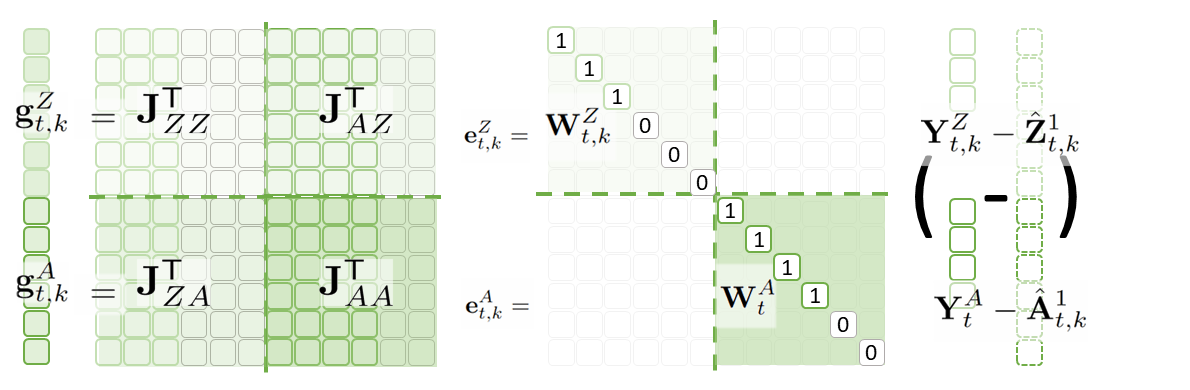
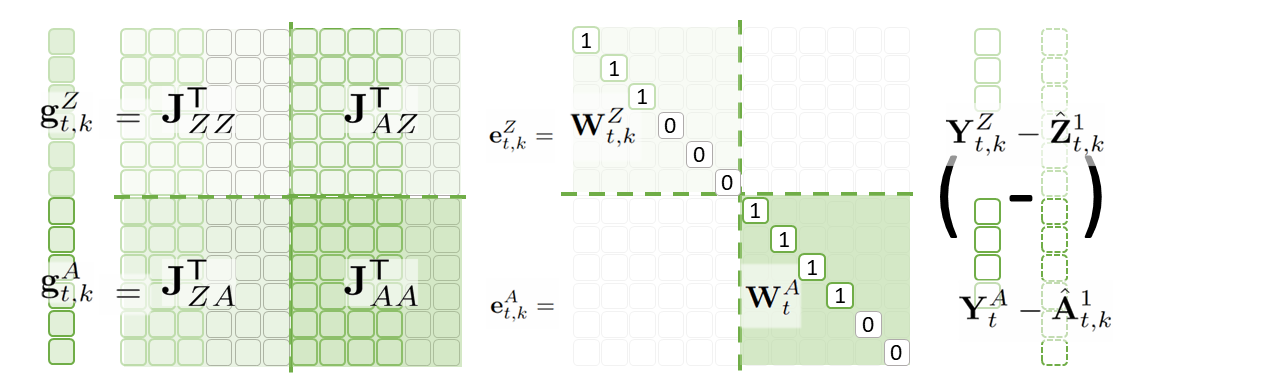
Preserve horizontal alignment in Figure 4

Changed region(s): [[0.0, 0.0615, 0.9328, 0.9538], [0.4353, 0.4923, 0.5286, 0.5231], [0.5597, 0.1231, 0.6218, 0.1538]]

diff --git a/docs/Chapters/3_Method.tex b/docs/Chapters/3_Method.tex
@@ -408,10 +408,10 @@ full endpoint Jacobian propagates them across state and action coordinates.
 
 \begin{figure*}[t]
     \centering
-    \includegraphics[width=0.94\textwidth]{../material/mask/parallel_0_cropped.png}
+    \includegraphics[width=0.98\textwidth]{../material/mask/parallel_0_cropped.png}
     \vspace{0.4em}
 
-    \includegraphics[width=0.90\textwidth]{../material/mask/parallel_1_cropped.png}
+    \includegraphics[width=0.98\textwidth]{../material/mask/parallel_1_cropped.png}
     \caption{Masked FBFM guidance for a joint-generation WAM: \emph{top,} the
     block-diagonal feedback mask forms separate state and action discrepancies,
     but the full endpoint-Jacobian transpose maps both into the corrections of
